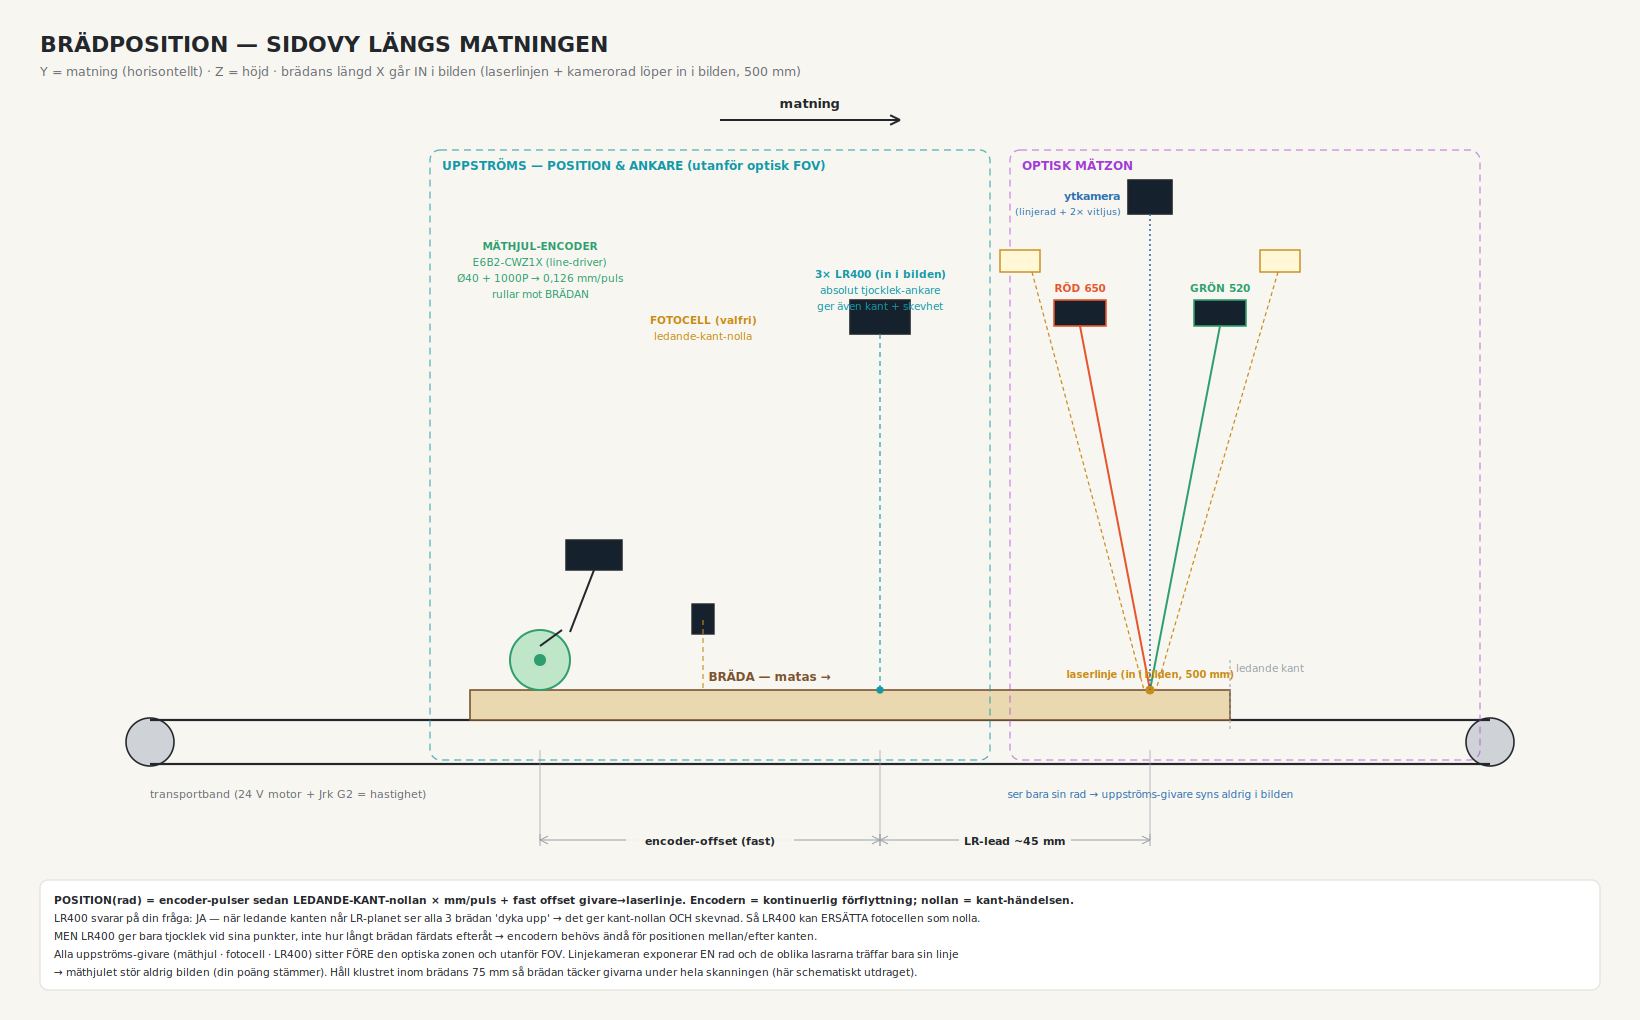
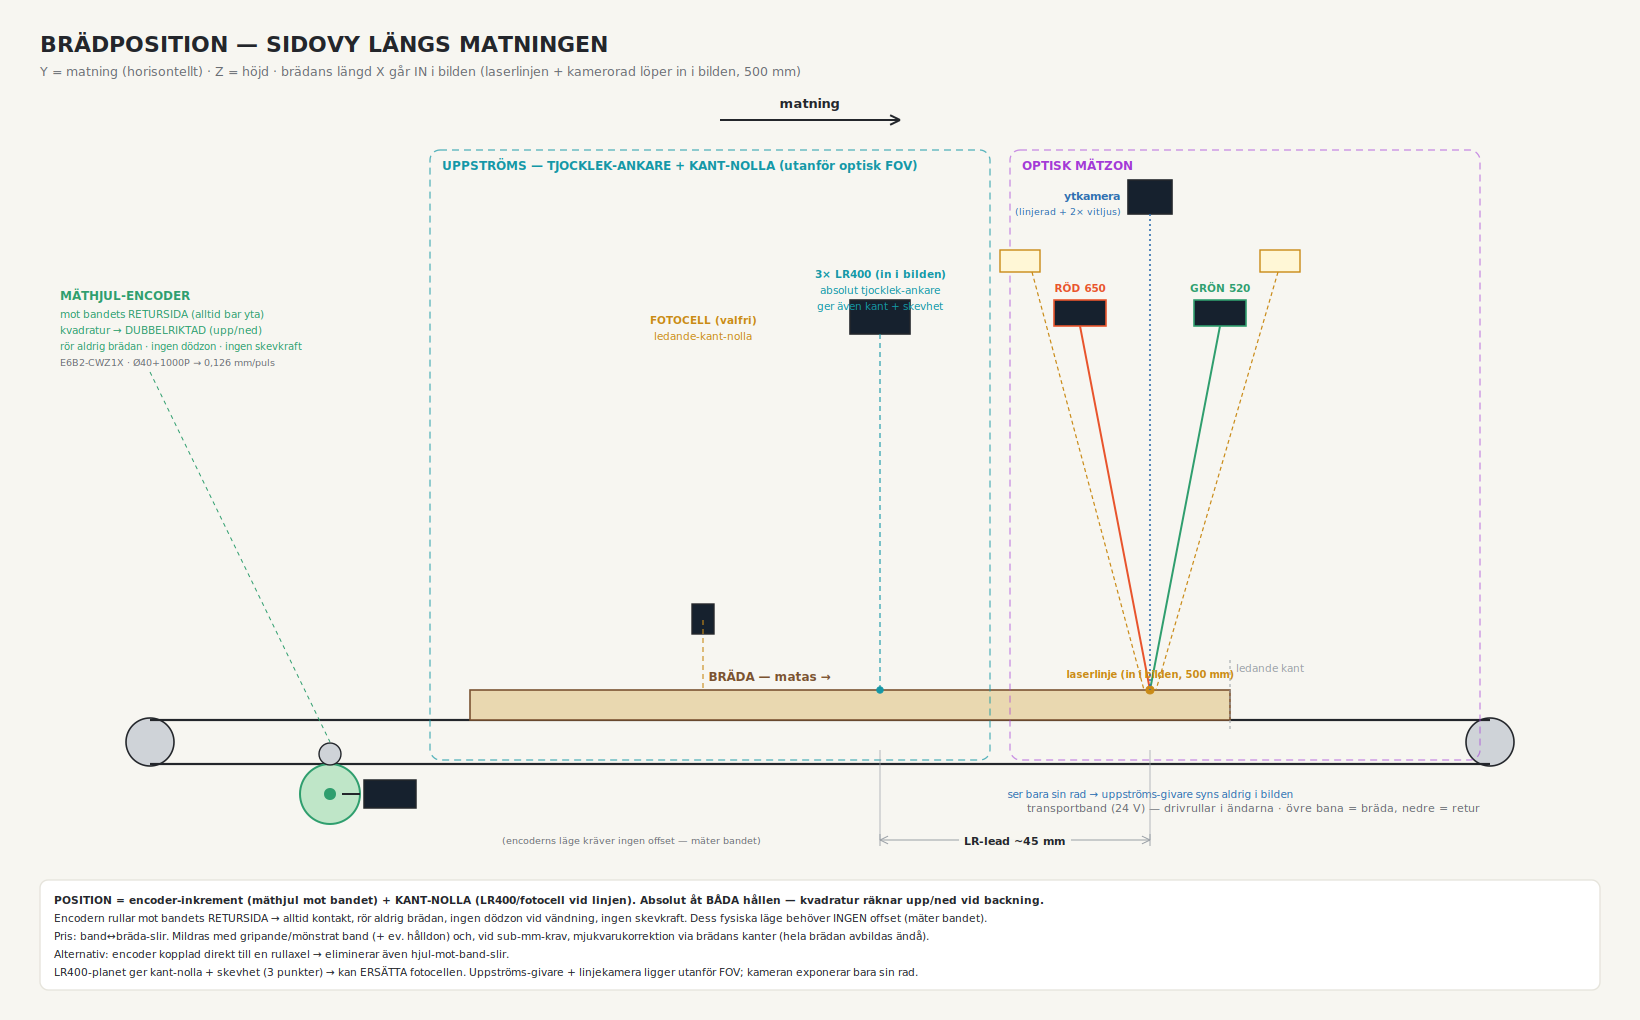
Positions-ritning: mäthjul mot bandets retursida (dubbelriktat, rör ej brädan)
Flyttat encodern från brädans ovansida till bandets RETURSIDA → alltid kontakt,
ingen dödzon vid vändning, ingen skevkraft, läge kräver ingen offset (mäter bandet).
Position = encoder-inkrement + kant-nolla (LR400/fotocell); absolut åt båda hållen
(kvadratur upp/ned). Noter om band-slir + mjukvarukorrektion + rullaxel-alternativ.

diff --git a/tools/draw_position_subsystem.py b/tools/draw_position_subsystem.py
@@ -49,7 +49,7 @@ BOARD_L, BOARD_R = 470, 1230    # brädans utbredning (75 mm bredd — schematis
 circ(150, BELT_Y+22, 24, ALU, INK, 1.6); circ(1490, BELT_Y+22, 24, ALU, INK, 1.6)
 line(150, BELT_Y, 1490, BELT_Y, INK, 2.2)
 line(150, BELT_Y+44, 1490, BELT_Y+44, INK, 2.2)
-txt(150, BELT_Y+78, "transportband (24 V motor + Jrk G2 = hastighet)", 11, "start", MUTED)
+txt(1480, BELT_Y+92, "transportband (24 V) — drivrullar i ändarna · övre bana = bräda, nedre = retur", 11, "end", MUTED)
 # bräda
 rect(BOARD_L, BELT_Y-BT, BOARD_R-BOARD_L, BT, WOOD, "#7a5230", 1.6)
 txt(770, BELT_Y-BT-9, "BRÄDA — matas →", 12, "middle", "#7a5230", 700)
@@ -65,18 +65,22 @@ def station_label(x, top, lines, col=INK):
 # ---- UPPSTRÖMS POSITIONS-/ANKARGIVARE (vänster, utanför FOV) ----
 zoneU = (430, 150, 560, 760)
 rect(zoneU[0], zoneU[1], zoneU[2], zoneU[3]-zoneU[1], "none", CY, 1.3, rx=10, dash="7 5", op=0.7)
-txt(zoneU[0]+12, zoneU[1]+20, "UPPSTRÖMS — POSITION & ANKARE (utanför optisk FOV)", 12, "start", CY, 700)
+txt(zoneU[0]+12, zoneU[1]+20, "UPPSTRÖMS — TJOCKLEK-ANKARE + KANT-NOLLA (utanför optisk FOV)", 12, "start", CY, 700)
 
-# 1) Mäthjuls-encoder
-ex = 540
-circ(ex, BELT_Y-BT-30, 30, "#bfe6c8", GRN, 2)          # mäthjul mot brädans ovansida
-circ(ex, BELT_Y-BT-30, 5, GRN, GRN, 2)
-line(ex, BELT_Y-BT, ex, BELT_Y-BT-0.1, GRN, 1)         # kontaktpunkt
-rect(ex+26, BELT_Y-BT-150, 56, 30, "#16212e", INK, 1.5)  # encoderkropp
-line(ex+22, BELT_Y-BT-60, ex, BELT_Y-BT-44, INK, 2)      # fjäderarm
-line(ex+54, BELT_Y-BT-120, ex+30, BELT_Y-BT-58, INK, 2)
-station_label(ex, 250, [("MÄTHJUL-ENCODER",700),("E6B2-CWZ1X (line-driver)",400),
-                        ("Ø40 + 1000P → 0,126 mm/puls",400),("rullar mot BRÄDAN",400)], GRN)
+# 1) Mäthjuls-encoder MOT BANDETS RETURSIDA (bar yta, utanför FOV, dubbelriktad)
+ex = 330
+ret = BELT_Y + 44                                  # nedre (retur) bandbana
+circ(ex, ret+30, 30, "#bfe6c8", GRN, 2)            # mäthjul under returbandet
+circ(ex, ret+30, 5, GRN, GRN, 2)
+circ(ex, ret-10, 11, ALU, INK, 1.4)                # backidler som håller bandet mot hjulet
+rect(ex+34, ret+16, 52, 28, "#16212e", INK, 1.5)   # encoderkropp
+line(ex+30, ret+30, ex+12, ret+30, INK, 2)         # nav → kropp
+txt(60, 300, "MÄTHJUL-ENCODER", 12, "start", GRN, 700)
+txt(60, 318, "mot bandets RETURSIDA (alltid bar yta)", 10.5, "start", GRN)
+txt(60, 334, "kvadratur → DUBBELRIKTAD (upp/ned)", 10.5, "start", GRN)
+txt(60, 350, "rör aldrig brädan · ingen dödzon · ingen skevkraft", 10, "start", GRN)
+txt(60, 366, "E6B2-CWZ1X · Ø40+1000P → 0,126 mm/puls", 9.5, "start", MUTED)
+line(150, 372, ex, ret-22, GRN, 1, dash="4 4")     # ledare till hjulet
 # 2) Fotocell (valfri)
 px = 700
 rect(px-8, BELT_Y-BT-86, 22, 30, "#16212e", INK, 1.4)
@@ -121,18 +125,19 @@ def hd(x1,x2,lbl):
     arrow((x1+x2)/2,ydim,x1,ydim,DIM,1); arrow((x1+x2)/2,ydim,x2,ydim,DIM,1)
     rect((x1+x2)/2-len(lbl)*4, ydim-9, len(lbl)*8, 18, PAPER, "none", 0, op=0.95)
     txt((x1+x2)/2, ydim+5, lbl, 11, "middle", INK, 700, MONO)
-line(ex, BELT_Y+30, ex, ydim, DIM, 0.7); line(lx, BELT_Y+30, lx, ydim, DIM, 0.7); line(laser_x, BELT_Y+30, laser_x, ydim, DIM, 0.7)
-hd(lx, laser_x, "LR-lead ~45 mm"); hd(ex, lx, "encoder-offset (fast)")
+line(lx, BELT_Y+30, lx, ydim, DIM, 0.7); line(laser_x, BELT_Y+30, laser_x, ydim, DIM, 0.7)
+hd(lx, laser_x, "LR-lead ~45 mm")
+txt(lx-120, ydim+4, "(encoderns läge kräver ingen offset — mäter bandet)", 9.5, "end", MUTED)
 
 # noter
 nx, ny = 40, 880
 rect(nx, ny, W-80, 110, "#fff", GRID, 1.4, rx=8)
 notes = [
- "POSITION(rad)  =  encoder-pulser sedan LEDANDE-KANT-nollan  ×  mm/puls  +  fast offset givare→laserlinje.   Encodern = kontinuerlig förflyttning; nollan = kant-händelsen.",
- "LR400 svarar på din fråga: JA — när ledande kanten når LR-planet ser alla 3 brädan 'dyka upp' → det ger kant-nollan OCH skevnad. Så LR400 kan ERSÄTTA fotocellen som nolla.",
- "MEN LR400 ger bara tjocklek vid sina punkter, inte hur långt brädan färdats efteråt → encodern behövs ändå för positionen mellan/efter kanten.",
- "Alla uppströms-givare (mäthjul · fotocell · LR400) sitter FÖRE den optiska zonen och utanför FOV. Linjekameran exponerar EN rad och de oblika lasrarna träffar bara sin linje",
- "→ mäthjulet stör aldrig bilden (din poäng stämmer). Håll klustret inom brädans 75 mm så brädan täcker givarna under hela skanningen (här schematiskt utdraget).",
+ "POSITION = encoder-inkrement (mäthjul mot bandet)  +  KANT-NOLLA (LR400/fotocell vid linjen).   Absolut åt BÅDA hållen — kvadratur räknar upp/ned vid backning.",
+ "Encodern rullar mot bandets RETURSIDA → alltid kontakt, rör aldrig brädan, ingen dödzon vid vändning, ingen skevkraft. Dess fysiska läge behöver INGEN offset (mäter bandet).",
+ "Pris: band↔bräda-slir. Mildras med gripande/mönstrat band (+ ev. hålldon) och, vid sub-mm-krav, mjukvarukorrektion via brädans kanter (hela brädan avbildas ändå).",
+ "Alternativ: encoder kopplad direkt till en rullaxel → eliminerar även hjul-mot-band-slir.",
+ "LR400-planet ger kant-nolla + skevhet (3 punkter) → kan ERSÄTTA fotocellen. Uppströms-givare + linjekamera ligger utanför FOV; kameran exponerar bara sin rad.",
 ]
 for i,l in enumerate(notes):
     txt(nx+14, ny+24+i*18, l, 10.6, "start", INK, 700 if i==0 else 400)
